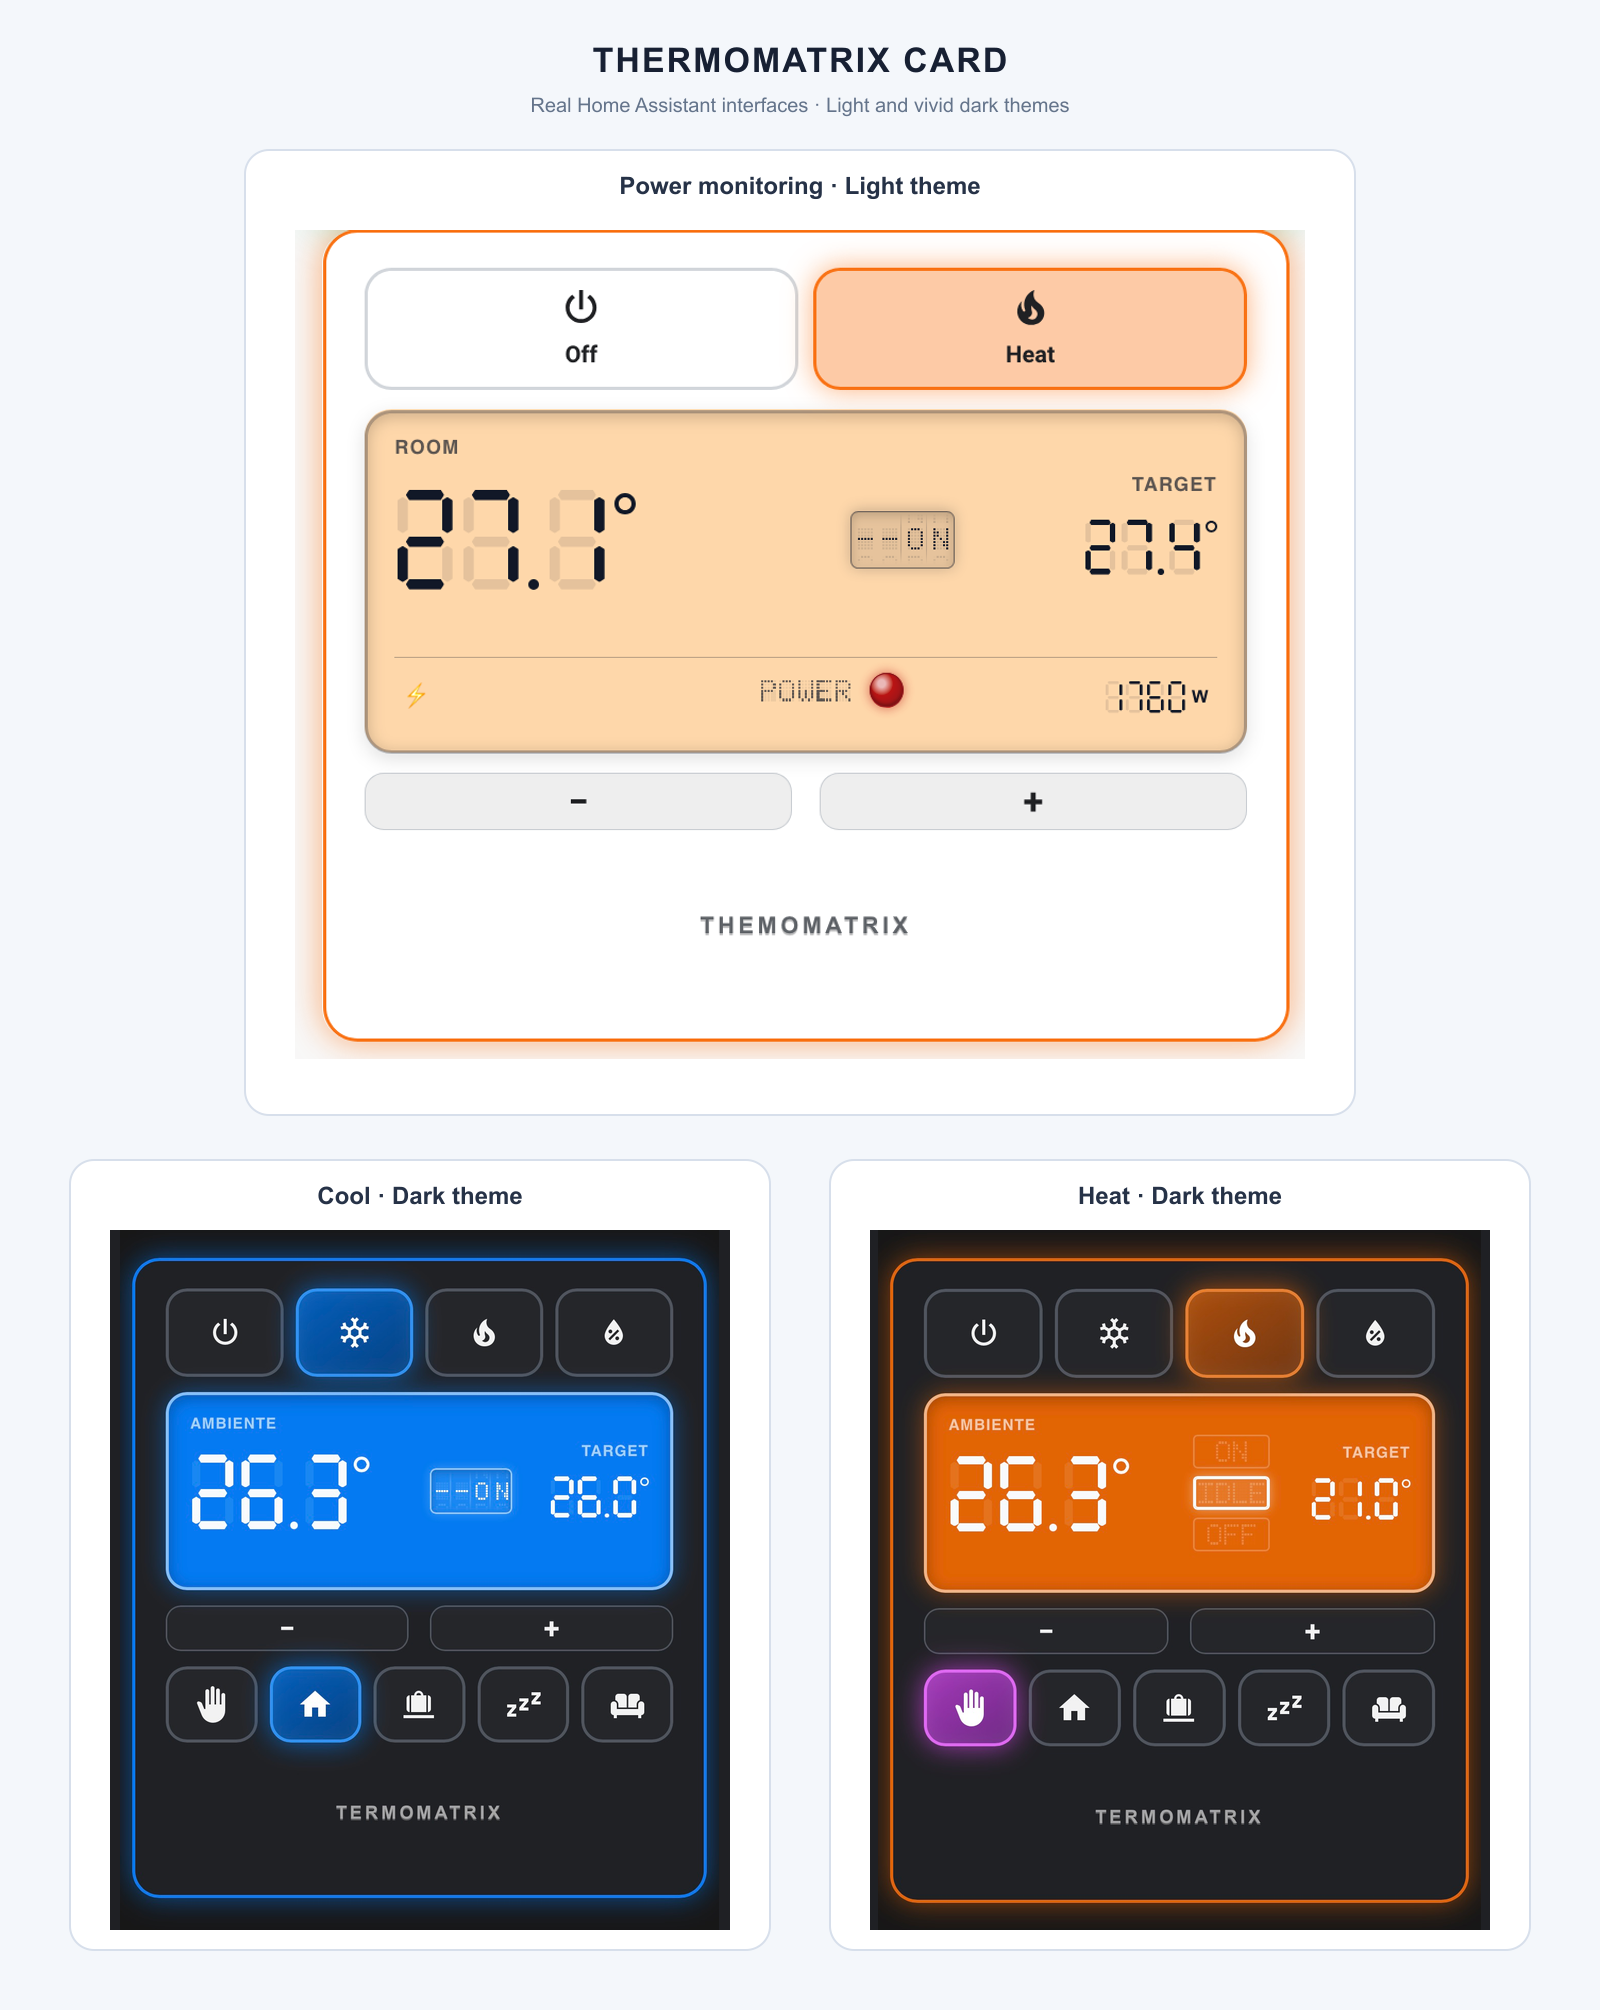
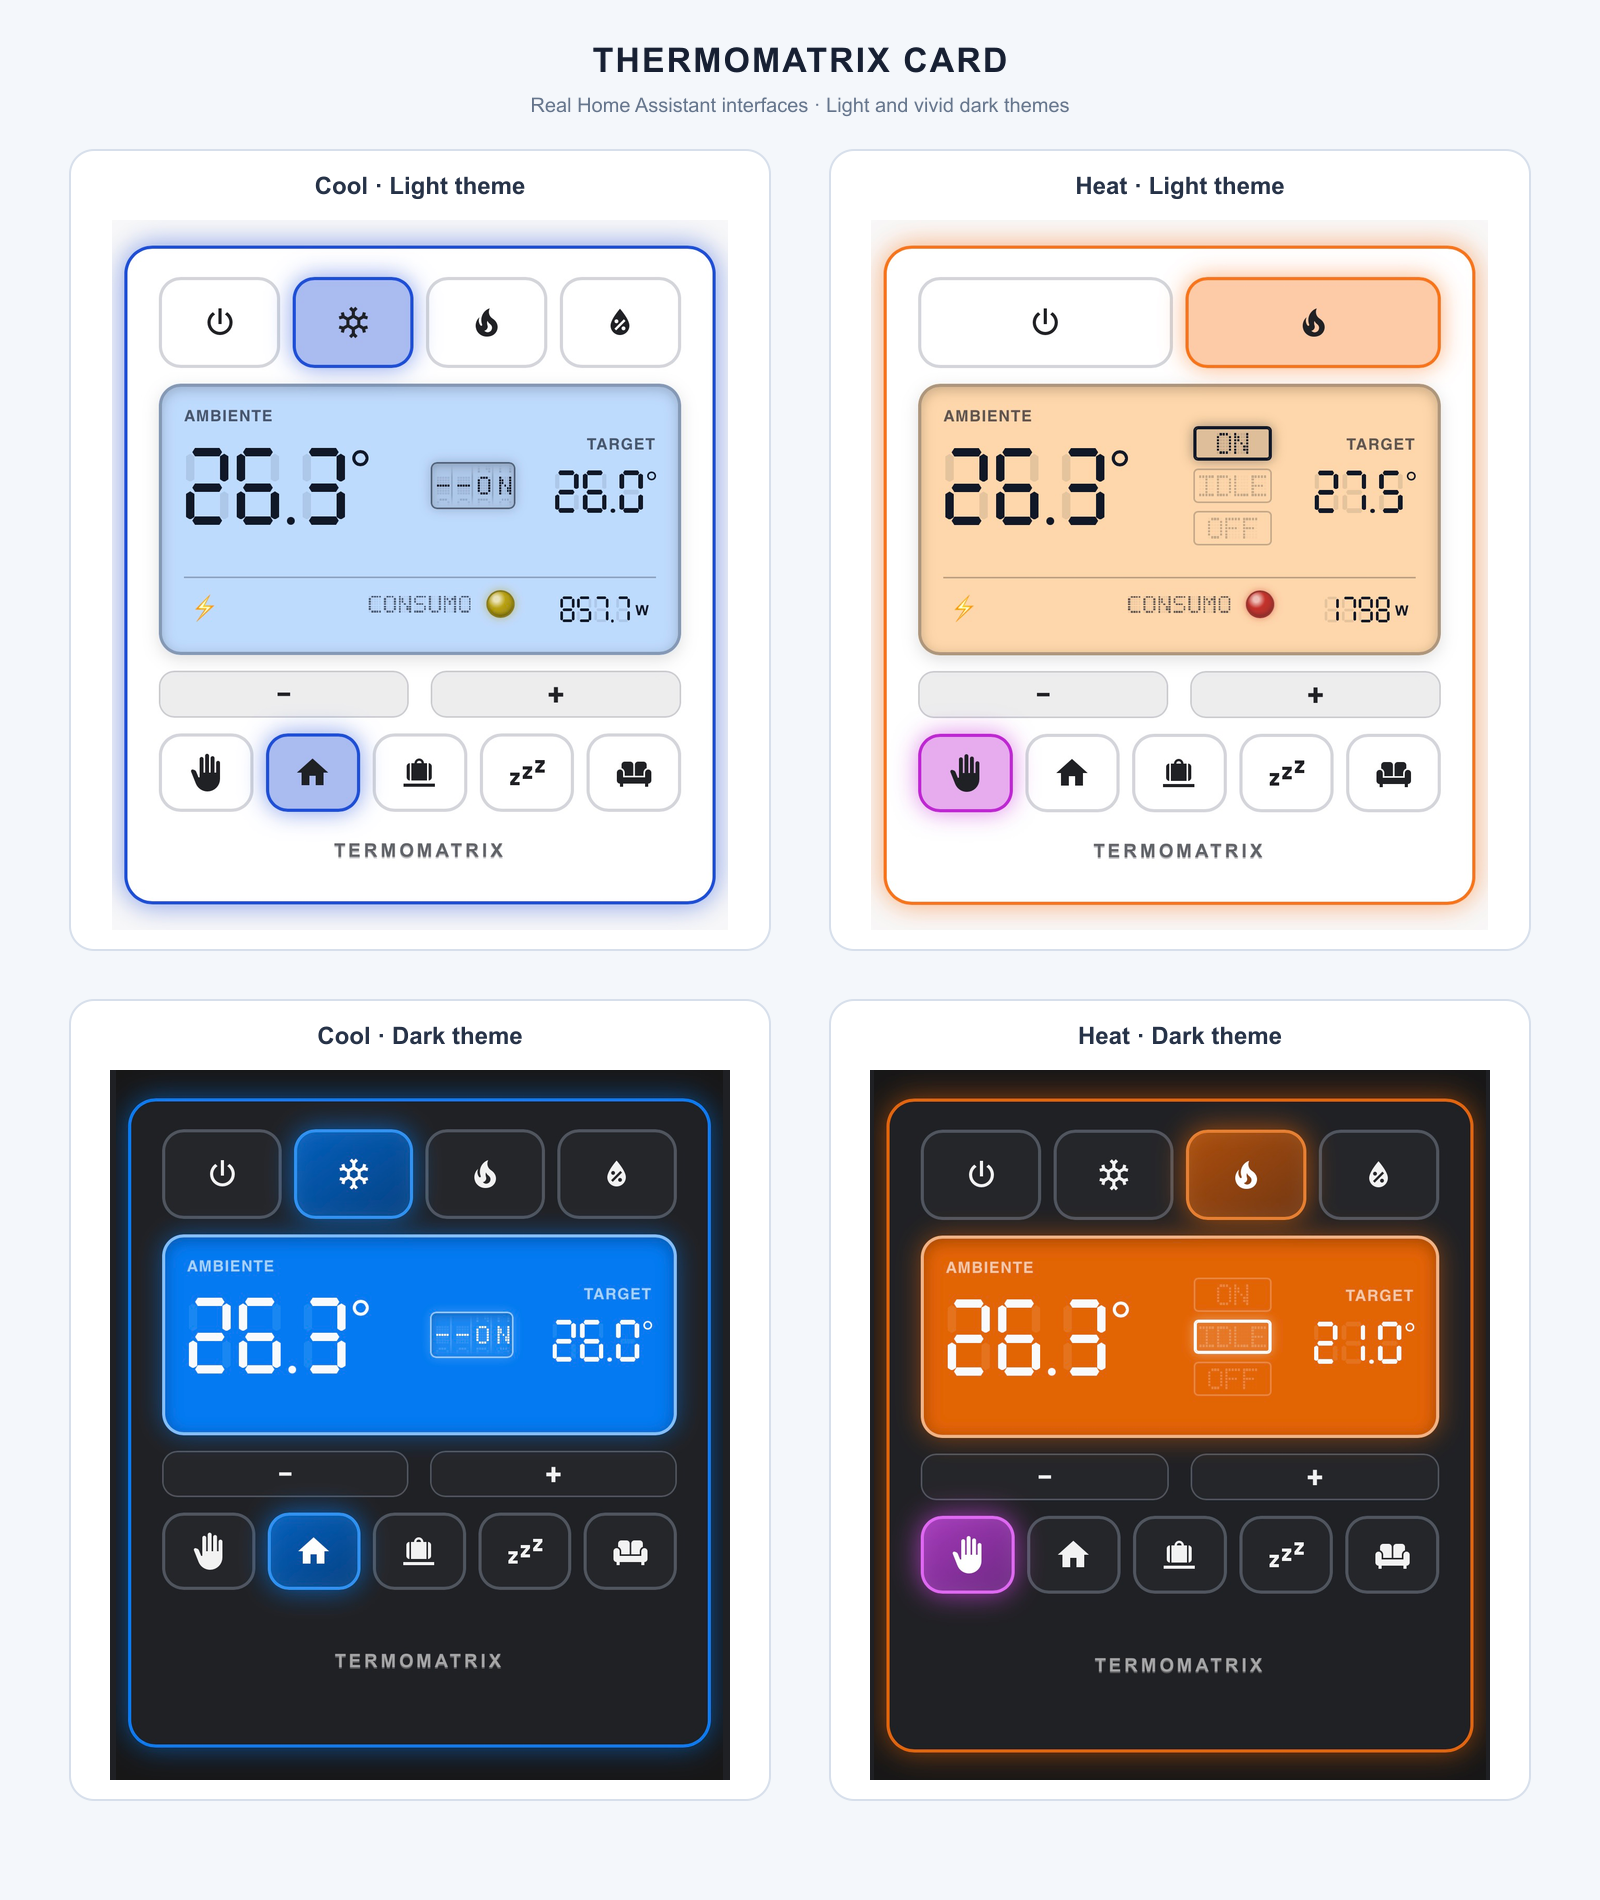
Release ThermoMatrix Card v1.0.0

diff --git a/dist/thermomatrix-card.js b/dist/thermomatrix-card.js
@@ -1180,7 +1180,7 @@ const ot = Rt(class extends Ut {
       animation: none;
     }
   }
-`, Lt = "0.6.0", Ft = /* @__PURE__ */ new Set(["heating", "cooling", "drying", "fan"]), rt = ["-", ..."ABCDEFGHIJKLMNOPQRSTUVWXYZ"], D = {
+`, Lt = "1.0.0", Ft = /* @__PURE__ */ new Set(["heating", "cooling", "drying", "fan"]), rt = ["-", ..."ABCDEFGHIJKLMNOPQRSTUVWXYZ"], D = {
   off: { icon: "mdi:power", color: "#94a3b8" },
   heat: { icon: "mdi:fire", color: "#f97316" },
   cool: { icon: "mdi:snowflake", color: "#1d4ed8" },

diff --git a/src/thermomatrix-card.ts b/src/thermomatrix-card.ts
@@ -13,7 +13,7 @@ import type {
   ThermoMatrixConfig,
 } from "./types";
 
-const VERSION = "0.6.0";
+const VERSION = "1.0.0";
 const WORKING_ACTIONS = new Set(["heating", "cooling", "drying", "fan"]);
 const WHEEL_CHARACTERS = ["-", ..."ABCDEFGHIJKLMNOPQRSTUVWXYZ"];
 

diff --git a/README.md b/README.md
@@ -19,18 +19,18 @@ ThermoMatrix provides a clear climate control interface with seven-segment tempe
 
 | Field | Current state |
 |---|---|
-| **Maturity** | 🟢 Stable baseline |
+| **Maturity** | 🟢 Stable |
 | **Used in my homelab** | ✅ Yes |
 | **Recommended for production** | ✅ Yes |
 | **Setup difficulty** | 🟢 Beginner |
 | **Documentation** | ✅ Complete |
-| **Current version** | `0.6.0` |
+| **Current version** | `1.0.0` |
 
 > [!NOTE]
 > **Beginner setup:** installation is handled by HACS. After adding the custom repository, select a climate entity in the visual card editor.
 
 > [!NOTE]
-> Version 0.6.0 is the first stable baseline used daily in the reference Home Assistant installations.
+> Version 1.0.0 is the first stable major release and is used daily in the reference Home Assistant installations.
 
 ---
 
